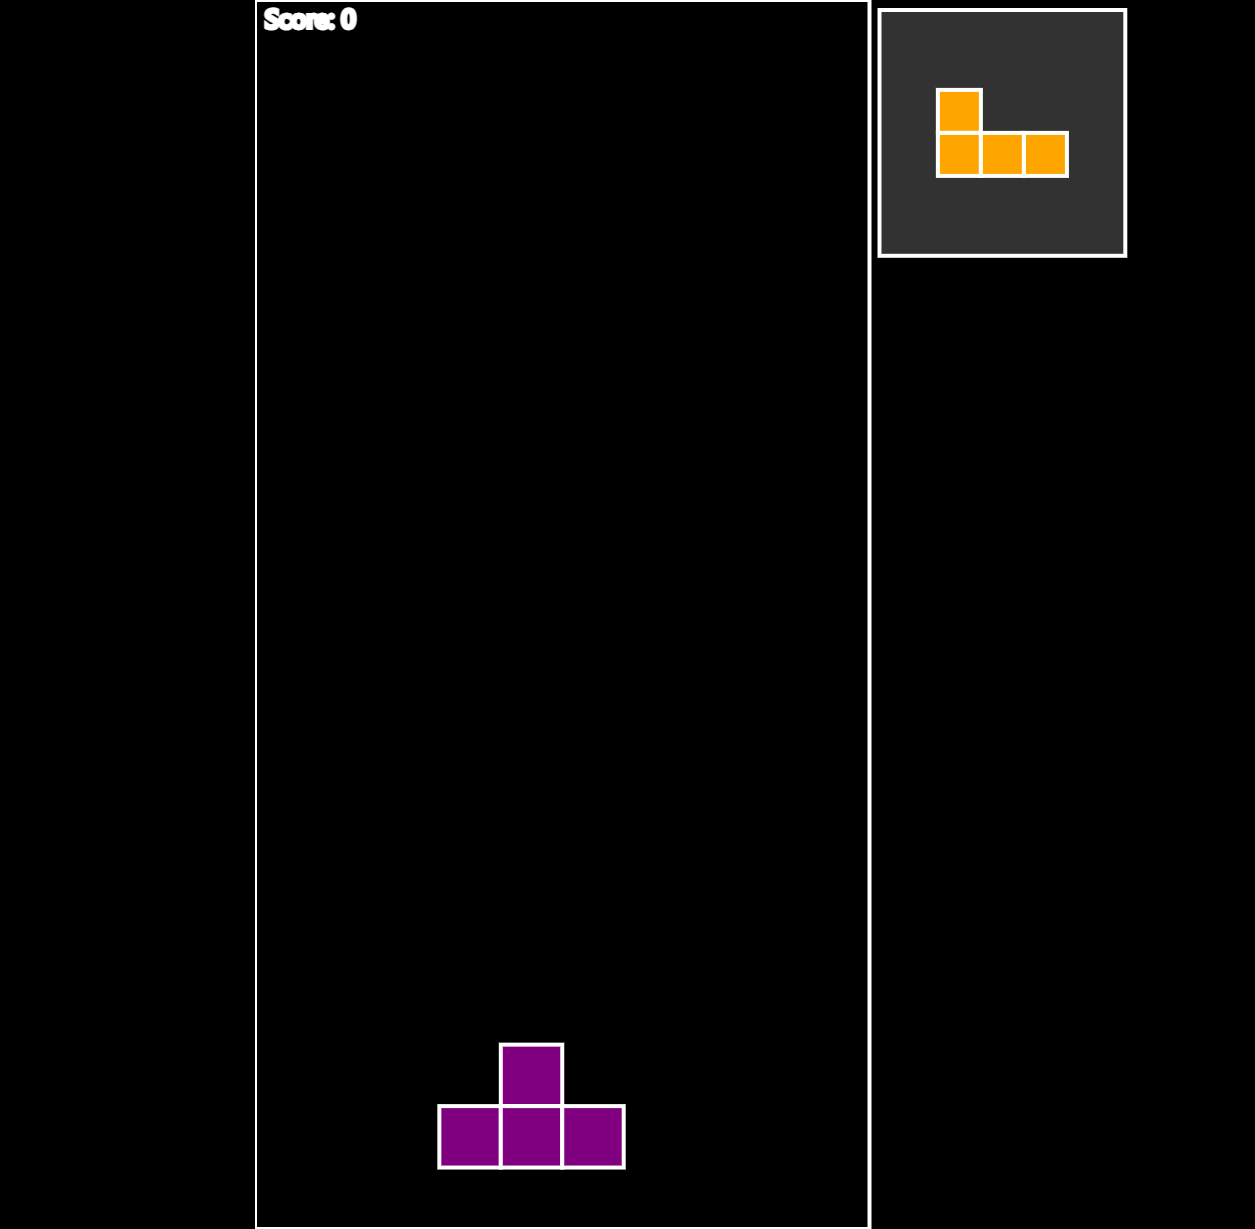
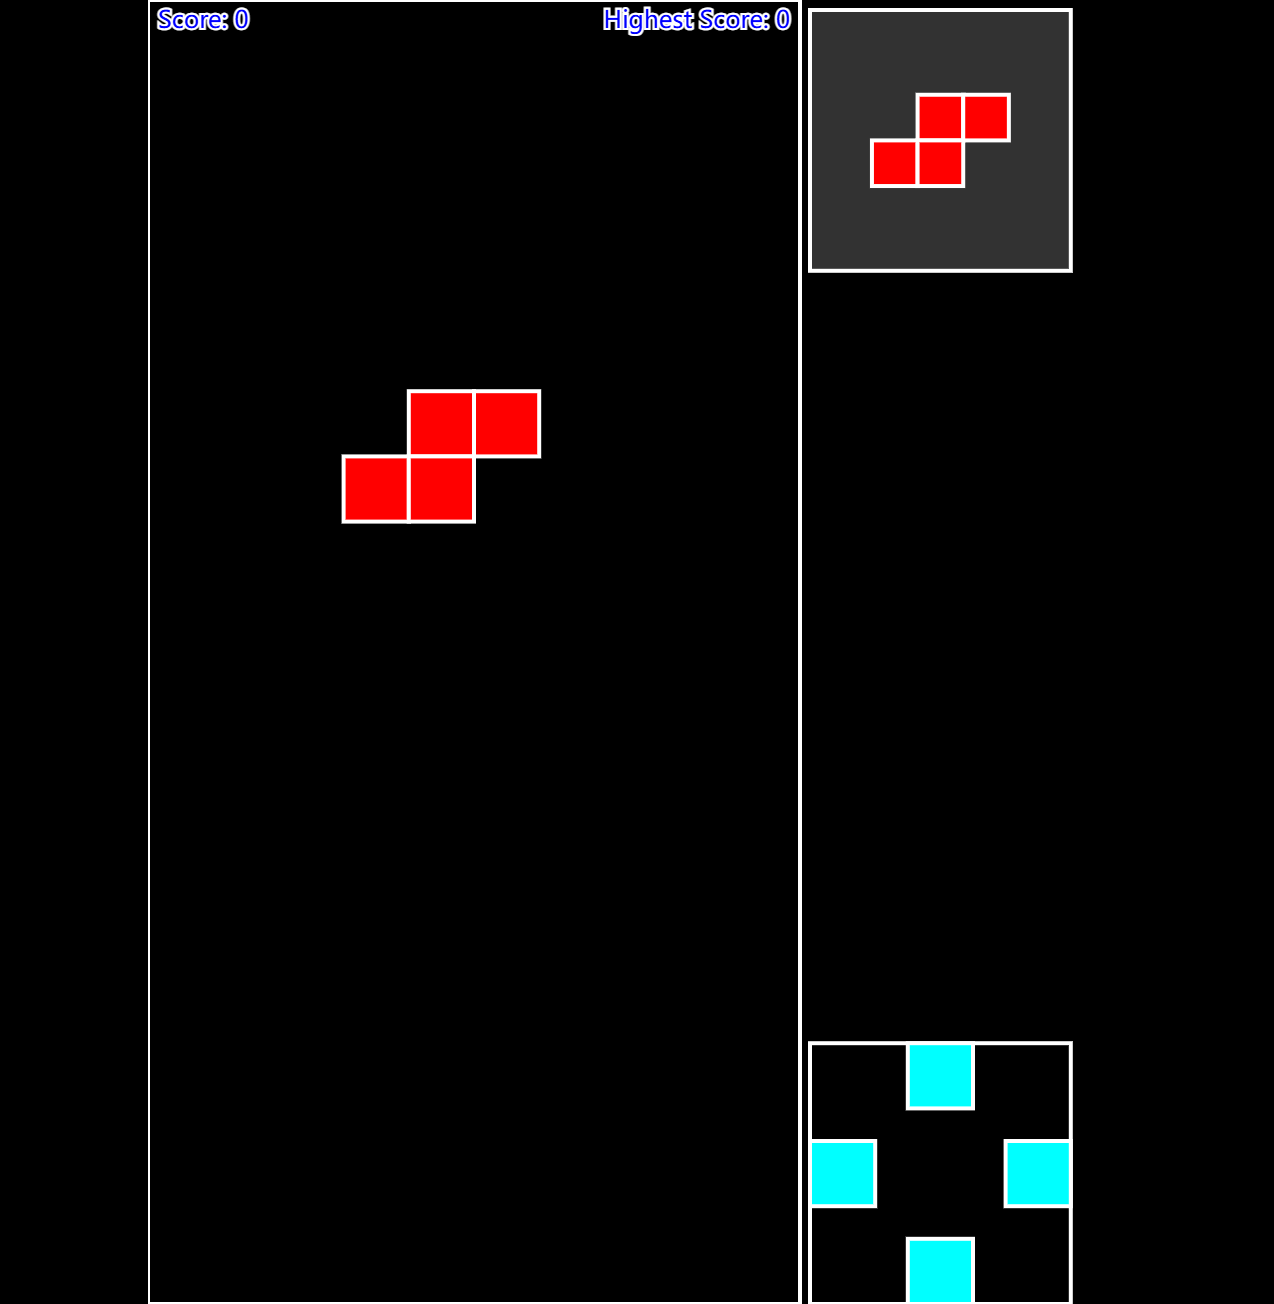
更新 README 文件，增加鼠标点击操作说明，优化键盘操作描述

diff --git a/README.md b/README.md
@@ -58,12 +58,13 @@ Tetris_of_Color/
 
 ## 游戏操作
 
-- **方向键**：
+- **键盘方向键**：
   - 左箭头：向左移动方块。
   - 右箭头：向右移动方块。
   - 下箭头：加速方块下落。
   - 上箭头：旋转方块。
-- **R 键**：重新开始游戏。
+- **键盘 R 键**：重新开始游戏。
+- **鼠标点击**：可以鼠标点击右下角的模拟手柄（移动端可以触屏点击，目前测试支持移动端的Chrome）。
 
 ---
 
